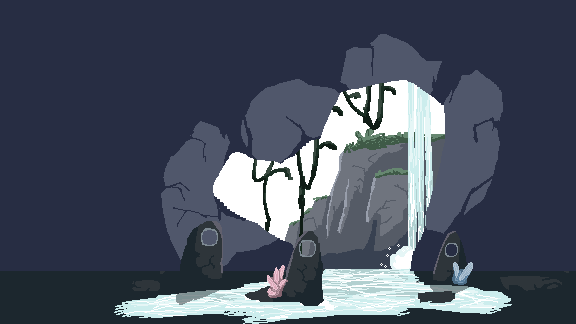
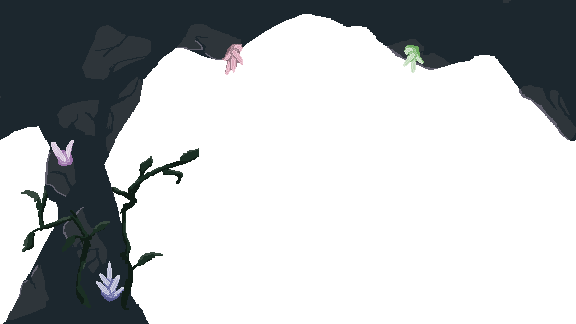
Creating menu interations Creating ABC class Creating Factory Level 1 Bg implementation: parallax

diff --git a/code/Menu.py b/code/Menu.py
@@ -1,10 +1,11 @@
 #!/usr/bin/python
 # -*- coding: utf-8 -*-
+
 import pygame.image
 from pygame import Surface, Rect
 from pygame.font import Font
 
-from code.Const import WIN_WIDTH, COLOR_BLUE, MENU_OPTION, COLOR_WHITE
+from code.Const import WIN_WIDTH, COLOR_BLUE, MENU_OPTION, COLOR_WHITE, COLOR_GREEN
 
 
 class Menu:
@@ -14,16 +15,21 @@ class Menu:
         self.rect = self.surf.get_rect(left=0, top=0)
 
     def run(self, ):
+        menu_option = 0
         pygame.mixer_music.load('./asset/Menu.wav')
         pygame.mixer_music.play(-1)
         while True:
+            # Draw images
             self.window.blit(source=self.surf, dest=self.rect)
-            self.menu_text(50, "Crystal", COLOR_WHITE, ((WIN_WIDTH / 2), 70))
-            self.menu_text(50, "Cave", COLOR_WHITE, ((WIN_WIDTH / 2), 120))
+            self.menu_text(50, "Crystal", COLOR_BLUE, ((WIN_WIDTH / 2), 70))
+            self.menu_text(50, "Cave", COLOR_BLUE, ((WIN_WIDTH / 2), 120))
 
             for i in range(len(MENU_OPTION)):
-                self.menu_text(20, MENU_OPTION[i], COLOR_WHITE, ((WIN_WIDTH / 2), 200 + 25 * i))
+                if i == menu_option:
+                    self.menu_text(20, MENU_OPTION[i], COLOR_GREEN, ((WIN_WIDTH / 2), 200 + 25 * i))
 
+                else:
+                    self.menu_text(20, MENU_OPTION[i], COLOR_WHITE, ((WIN_WIDTH / 2), 200 + 25 * i))
             pygame.display.flip()
 
             # Check for all events
@@ -31,6 +37,19 @@ class Menu:
                 if event.type == pygame.QUIT:
                     pygame.quit()  # Close Window
                     quit()  # end pygame
+                if event.type == pygame.KEYDOWN:
+                    if event.key == pygame.K_DOWN: # Down key
+                        if menu_option < len(MENU_OPTION) - 1:
+                            menu_option += 1
+                        else:
+                            menu_option = 0
+                    if event.key == pygame.K_UP: # Up key
+                        if menu_option > 0:
+                            menu_option -= 1
+                        else:
+                            menu_option = len(MENU_OPTION) - 1
+                    if event.key == pygame.K_RETURN: # Enter
+                        return MENU_OPTION[menu_option]
 
     def menu_text(self, text_size: int, text: str, text_color: tuple, text_center_pos: tuple):
         text_font: Font = pygame.font.SysFont(name='Times New Roman', size=text_size)

diff --git a/code/Level.py b/code/Level.py
@@ -1,11 +1,23 @@
 #!/usr/bin/python
 # -*- coding: utf-8 -*-
+import pygame
+
+from code.Entity import Entity
+from code.EntityFactory import EntityFactory
+
 
 class Level:
-    def __init__(self):
-        self.window = None
-        self.name = None
-        self.entity_list = None
+    def __init__(self, window, name, game_mode):
+        self.window = window
+        self.name = name
+        self.game_mode = game_mode
+        self.entity_list: list[Entity] = []
+        self.entity_list.extend(EntityFactory.get_entity('Level1Bg'))
 
-    def run(self, ):
+    def run(self):
+        while True:
+            for ent in self.entity_list:
+                self.window.blit(source=ent.surf, dest=ent.rect)
+                ent.move()
+            pygame.display.flip()
         pass

diff --git a/code/Game.py b/code/Game.py
@@ -2,7 +2,8 @@
 # -*- coding: utf-8 -*-
 import pygame
 
-from code.Const import WIN_WIDTH, WIN_HEIGHT
+from code.Const import WIN_WIDTH, WIN_HEIGHT, MENU_OPTION
+from code.Level import Level
 from code.Menu import Menu
 
 
@@ -14,5 +15,13 @@ class Game:
     def run(self):
         while True:
             menu = Menu(self.window)
-            menu.run()
-            pass
+            menu_return = menu.run()
+
+            if menu_return in [MENU_OPTION[0], MENU_OPTION[1], MENU_OPTION[2]]:
+                level = Level(self.window, 'Level1', menu_return)
+                level_return = level.run()
+            elif menu_return == MENU_OPTION[4]:
+                pygame.quit() # Close window
+                quit() # End pygame
+            else:
+                pass

diff --git a/code/EntityFactory.py b/code/EntityFactory.py
@@ -1,9 +1,17 @@
 #!/usr/bin/python
 # -*- coding: utf-8 -*-
+from code.Background import Background
+from code.Const import WIN_WIDTH
+
 
 class EntityFactory:
-    def __init__(self):
-        pass
-
-    def get_entity(self, entity_type):
-        pass
+    @staticmethod
+    def get_entity(entity_name: str, position=(0,0)):
+        match entity_name:
+            case 'Level1Bg':
+                list_bg = []
+                for i in range(4):
+                    list_bg.append(Background(f'Level1Bg{i}', (0, 0)))
+                    list_bg.append(Background(f'Level1Bg{i}', (WIN_WIDTH, 0)))
+                return list_bg
+        return None

diff --git a/code/Entity.py b/code/Entity.py
@@ -1,11 +1,17 @@
 #!/usr/bin/python
 # -*- coding: utf-8 -*-
+from abc import ABC, abstractmethod
 
-class Entity:
-    def __init__(self):
-        self.name = None
-        self.surf = None
-        self.rect = None
+import pygame.image
 
+
+class Entity(ABC):
+    def __init__(self, name: str, position: tuple):
+        self.name = name
+        self.surf = pygame.image.load('./asset/' + name + '.png')
+        self.rect = self.surf.get_rect(left=position[0], top=position[1])
+        self.speed = 0
+
+    @abstractmethod
     def move(self, ):
         pass

diff --git a/code/Background.py b/code/Background.py
@@ -1,12 +1,14 @@
 #!/usr/bin/python
 # -*- coding: utf-8 -*-
-
-from Entity import Entity
+from code.Const import WIN_WIDTH, ENTITY_SPEED
+from code.Entity import Entity
 
 
 class Background(Entity):
-    def __init__(self):
-        pass
+    def __init__(self, name: str, position: tuple):
+        super().__init__(name, position)
 
     def move(self, ):
-        pass
+        self.rect.centerx -= ENTITY_SPEED[self.name]
+        if self.rect.right <= 0:
+            self.rect.left = WIN_WIDTH

diff --git a/code/Const.py b/code/Const.py
@@ -1,11 +1,20 @@
 # C
 COLOR_BLUE = (0, 35, 245)
+COLOR_GREEN = (144, 238, 144)
 COLOR_WHITE = (255, 255, 255)
+
+# E
+ENTITY_SPEED = {
+    'Level1Bg0': 0,
+    'Level1Bg1': 3,
+    'Level1Bg2': 2,
+    'Level1Bg3': 3,
+}
 
 # M
 MENU_OPTION = ('NEW GAME 1P',
                'NEW GAME 2P - COOPERATIVE',
-               'NEW GAME 2P - COOPERATIVE',
+               'NEW GAME 2P - COMPETITIVE',
                'SCORE',
                'EXIT')
 
